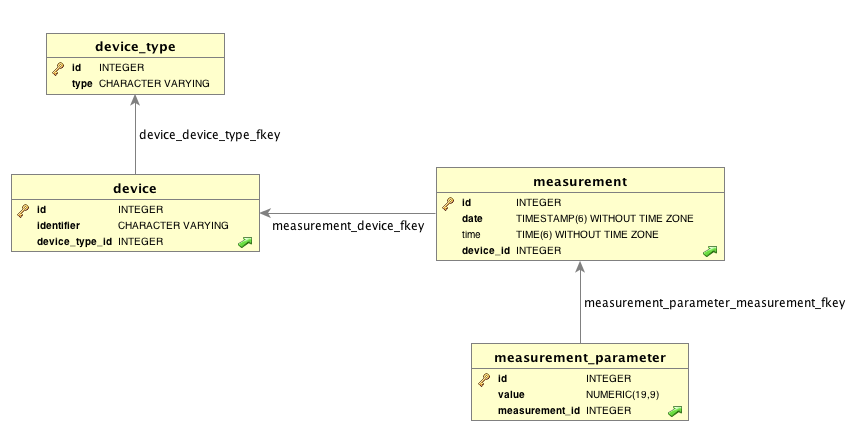
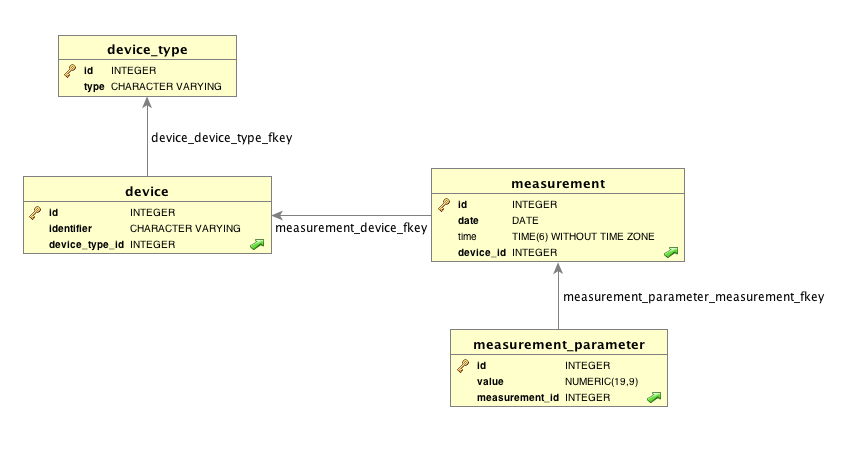
Fix typo

diff --git a/README.md b/README.md
@@ -43,7 +43,7 @@ Stores information about device measurement attempts
 CREATE TABLE measurement
 (
   id serial NOT NULL,
-  date timestamp without time zone NOT NULL,
+  date date NOT NULL,
   time time without time zone,
   device_id integer NOT NULL,
   CONSTRAINT measurement_pkey PRIMARY KEY (id),
